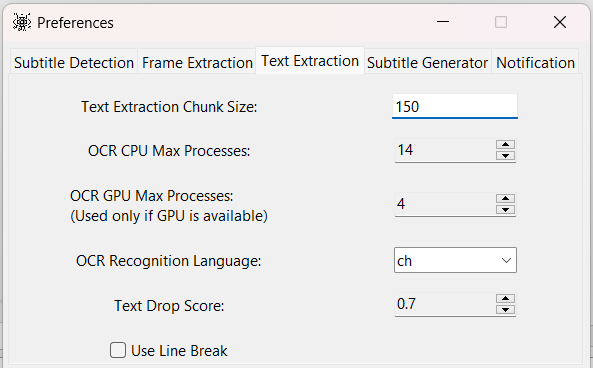
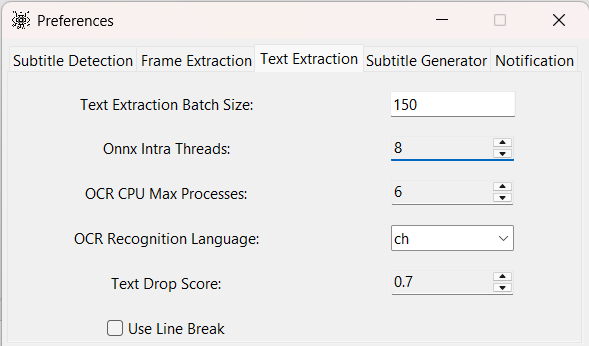
variables renamed

diff --git a/gui.py b/gui.py
@@ -1070,13 +1070,13 @@ class PreferencesUI(tk.Toplevel):
             width=self.spinbox_size
         ).grid(column=1, row=0)
 
-        ttk.Label(frame_extraction_frame, text="Frame Extraction Chunk Size:").grid(column=0, row=1)
-        self.frame_extraction_chunk_size = tk.IntVar(value=utils.Config.frame_extraction_chunk_size)
-        self.frame_extraction_chunk_size.trace_add("write", self._set_reset_button)
+        ttk.Label(frame_extraction_frame, text="Frame Extraction Batch Size:").grid(column=0, row=1)
+        self.frame_extraction_batch_size = tk.IntVar(value=utils.Config.frame_extraction_batch_size)
+        self.frame_extraction_batch_size.trace_add("write", self._set_reset_button)
         check_int = (self.register(self._check_integer), '%P')
         ttk.Entry(
             frame_extraction_frame,
-            textvariable=self.frame_extraction_chunk_size,
+            textvariable=self.frame_extraction_batch_size,
             validate='key',
             validatecommand=check_int,
             width=self.entry_size
@@ -1091,40 +1091,38 @@ class PreferencesUI(tk.Toplevel):
         text_extraction_frame.grid_columnconfigure(1, weight=1)
         self.notebook_tab.add(text_extraction_frame, text=utils.Config.sections[1])
 
-        ttk.Label(text_extraction_frame, text="Text Extraction Chunk Size:").grid(
+        ttk.Label(text_extraction_frame, text="Text Extraction Batch Size:").grid(
             column=0, row=0, padx=self.wgt_x_padding, pady=self.wgt_y_padding
         )
-        self.text_extraction_chunk_size = tk.IntVar(value=utils.Config.text_extraction_chunk_size)
-        self.text_extraction_chunk_size.trace_add("write", self._set_reset_button)
+        self.text_extraction_batch_size = tk.IntVar(value=utils.Config.text_extraction_batch_size)
+        self.text_extraction_batch_size.trace_add("write", self._set_reset_button)
         check_int = (self.register(self._check_integer), '%P')
         ttk.Entry(
             text_extraction_frame,
-            textvariable=self.text_extraction_chunk_size,
+            textvariable=self.text_extraction_batch_size,
             validate='key',
             validatecommand=check_int,
             width=self.entry_size
         ).grid(column=1, row=0)
 
-        ttk.Label(text_extraction_frame, text="OCR CPU Max Processes:").grid(column=0, row=1)
+        ttk.Label(text_extraction_frame, text="Onnx Intra Threads:").grid(column=0, row=1)
+        self.onnx_intra_threads = tk.IntVar(value=utils.Config.onnx_intra_threads)
+        self.onnx_intra_threads.trace_add("write", self._set_reset_button)
+        ttk.Spinbox(
+            text_extraction_frame,
+            from_=0, to=cpu_count(),
+            textvariable=self.onnx_intra_threads,
+            state="readonly",
+            width=self.spinbox_size
+        ).grid(column=1, row=1)
+
+        ttk.Label(text_extraction_frame, text="OCR CPU Max Processes:").grid(column=0, row=2, pady=self.wgt_y_padding)
         self.ocr_cpu_max_processes = tk.IntVar(value=utils.Config.ocr_cpu_max_processes)
         self.ocr_cpu_max_processes.trace_add("write", self._set_reset_button)
         ttk.Spinbox(
             text_extraction_frame,
             from_=1, to=cpu_count(),
             textvariable=self.ocr_cpu_max_processes,
-            state="readonly",
-            width=self.spinbox_size
-        ).grid(column=1, row=1)
-
-        ttk.Label(text_extraction_frame, text="OCR GPU Max Processes:\n(Used only if GPU is available)").grid(
-            column=0, row=2, pady=self.wgt_y_padding
-        )
-        self.ocr_gpu_max_processes = tk.IntVar(value=utils.Config.ocr_gpu_max_processes)
-        self.ocr_gpu_max_processes.trace_add("write", self._set_reset_button)
-        ttk.Spinbox(
-            text_extraction_frame,
-            from_=1, to=cpu_count() // 2,
-            textvariable=self.ocr_gpu_max_processes,
             state="readonly",
             width=self.spinbox_size
         ).grid(column=1, row=2)
@@ -1283,9 +1281,9 @@ class PreferencesUI(tk.Toplevel):
         logger.debug(f"Reset button set by -> {args}")
         default_values = (
             utils.Config.default_frame_extraction_frequency,
-            utils.Config.default_frame_extraction_chunk_size,
-            utils.Config.default_text_extraction_chunk_size,
-            utils.Config.default_ocr_gpu_max_processes,
+            utils.Config.default_frame_extraction_batch_size,
+            utils.Config.default_text_extraction_batch_size,
+            utils.Config.default_onnx_intra_threads,
             utils.Config.default_ocr_cpu_max_processes,
             utils.Config.default_ocr_rec_language,
             utils.Config.default_text_drop_score,
@@ -1308,9 +1306,9 @@ class PreferencesUI(tk.Toplevel):
         try:
             values = (
                 self.frame_extraction_frequency.get(),
-                self.frame_extraction_chunk_size.get(),
-                self.text_extraction_chunk_size.get(),
-                self.ocr_gpu_max_processes.get(),
+                self.frame_extraction_batch_size.get(),
+                self.text_extraction_batch_size.get(),
+                self.onnx_intra_threads.get(),
                 self.ocr_cpu_max_processes.get(),
                 self.ocr_rec_language.get(),
                 self.text_drop_score.get(),
@@ -1369,10 +1367,10 @@ class PreferencesUI(tk.Toplevel):
         """
         # Frame extraction settings.
         self.frame_extraction_frequency.set(utils.Config.default_frame_extraction_frequency)
-        self.frame_extraction_chunk_size.set(utils.Config.default_frame_extraction_chunk_size)
+        self.frame_extraction_batch_size.set(utils.Config.default_frame_extraction_batch_size)
         # Text extraction settings.
-        self.text_extraction_chunk_size.set(utils.Config.default_text_extraction_chunk_size)
-        self.ocr_gpu_max_processes.set(utils.Config.default_ocr_gpu_max_processes)
+        self.text_extraction_batch_size.set(utils.Config.default_text_extraction_batch_size)
+        self.onnx_intra_threads.set(utils.Config.default_onnx_intra_threads)
         self.ocr_cpu_max_processes.set(utils.Config.default_ocr_cpu_max_processes)
         self.ocr_rec_language.set(utils.Config.default_ocr_rec_language)
         self.text_drop_score.set(utils.Config.default_text_drop_score)
@@ -1403,10 +1401,10 @@ class PreferencesUI(tk.Toplevel):
                 **{
                     # Frame extraction settings.
                     utils.Config.keys[0]: self.frame_extraction_frequency.get(),
-                    utils.Config.keys[1]: self.frame_extraction_chunk_size.get(),
+                    utils.Config.keys[1]: self.frame_extraction_batch_size.get(),
                     # Text extraction settings.
-                    utils.Config.keys[2]: self.text_extraction_chunk_size.get(),
-                    utils.Config.keys[3]: self.ocr_gpu_max_processes.get(),
+                    utils.Config.keys[2]: self.text_extraction_batch_size.get(),
+                    utils.Config.keys[3]: self.onnx_intra_threads.get(),
                     utils.Config.keys[17]: self.ocr_cpu_max_processes.get(),
                     utils.Config.keys[4]: self.ocr_rec_language.get(),
                     utils.Config.keys[18]: self.text_drop_score.get(),

diff --git a/utilities/utils.py b/utilities/utils.py
@@ -1,6 +1,5 @@
 import logging
 from configparser import ConfigParser
-from os import cpu_count
 from pathlib import Path
 
 logger = logging.getLogger(__name__)
@@ -33,8 +32,8 @@ class Config:
     config.read(config_file)
 
     sections = ["Frame Extraction", "Text Extraction", "Subtitle Generator", "Subtitle Detection", "Notification"]
-    keys = ["frame_extraction_frequency", "frame_extraction_chunk_size", "text_extraction_chunk_size",
-            "ocr_gpu_max_processes", "ocr_rec_language", "text_similarity_threshold", "min_consecutive_sub_dur_ms",
+    keys = ["frame_extraction_frequency", "frame_extraction_batch_size", "text_extraction_batch_size",
+            "onnx_intra_threads", "ocr_rec_language", "text_similarity_threshold", "min_consecutive_sub_dur_ms",
             "max_consecutive_short_durs", "min_sub_duration_ms", "split_start", "split_stop", "no_of_frames",
             "sub_area_x_rel_padding", "sub_area_y_abs_padding", "use_search_area", "win_notify_sound",
             "win_notify_loop_sound", "ocr_cpu_max_processes", "text_drop_score", "use_gpu", "line_break"]
@@ -48,11 +47,11 @@ class Config:
 
     # Default values
     default_frame_extraction_frequency = 2
-    default_frame_extraction_chunk_size = 250
+    default_frame_extraction_batch_size = 250
 
-    default_text_extraction_chunk_size = 150
-    default_ocr_gpu_max_processes = 4
-    default_ocr_cpu_max_processes = cpu_count() // 2
+    default_text_extraction_batch_size = 100
+    default_onnx_intra_threads = 8
+    default_ocr_cpu_max_processes = 6
     default_ocr_rec_language = "ch"
     default_text_drop_score = 0.7
     default_line_break = False
@@ -74,8 +73,8 @@ class Config:
     default_win_notify_loop_sound = True
 
     # Initial values
-    frame_extraction_frequency = frame_extraction_chunk_size = None
-    text_extraction_chunk_size = ocr_gpu_max_processes = ocr_cpu_max_processes = ocr_rec_language = text_drop_score = None
+    frame_extraction_frequency = frame_extraction_batch_size = None
+    text_extraction_batch_size = onnx_intra_threads = ocr_cpu_max_processes = ocr_rec_language = text_drop_score = None
     text_similarity_threshold = min_consecutive_sub_dur_ms = max_consecutive_short_durs = min_sub_duration_ms = use_gpu = None
     split_start = split_stop = no_of_frames = sub_area_x_rel_padding = sub_area_y_abs_padding = use_search_area = None
     win_notify_sound = win_notify_loop_sound = line_break = None
@@ -90,9 +89,9 @@ class Config:
         Creates a new config file with the default values.
         """
         self.config[self.sections[0]] = {self.keys[0]: str(self.default_frame_extraction_frequency),
-                                         self.keys[1]: self.default_frame_extraction_chunk_size}
-        self.config[self.sections[1]] = {self.keys[2]: self.default_text_extraction_chunk_size,
-                                         self.keys[3]: self.default_ocr_gpu_max_processes,
+                                         self.keys[1]: self.default_frame_extraction_batch_size}
+        self.config[self.sections[1]] = {self.keys[2]: self.default_text_extraction_batch_size,
+                                         self.keys[3]: self.default_onnx_intra_threads,
                                          self.keys[17]: self.default_ocr_cpu_max_processes,
                                          self.keys[4]: self.default_ocr_rec_language,
                                          self.keys[18]: self.default_text_drop_score,
@@ -119,10 +118,10 @@ class Config:
         Parse the values of the config file into memory.
         """
         cls.frame_extraction_frequency = cls.config[cls.sections[0]].getint(cls.keys[0])
-        cls.frame_extraction_chunk_size = cls.config[cls.sections[0]].getint(cls.keys[1])
+        cls.frame_extraction_batch_size = cls.config[cls.sections[0]].getint(cls.keys[1])
 
-        cls.text_extraction_chunk_size = cls.config[cls.sections[1]].getint(cls.keys[2])
-        cls.ocr_gpu_max_processes = cls.config[cls.sections[1]].getint(cls.keys[3])
+        cls.text_extraction_batch_size = cls.config[cls.sections[1]].getint(cls.keys[2])
+        cls.onnx_intra_threads = cls.config[cls.sections[1]].getint(cls.keys[3])
         cls.ocr_cpu_max_processes = cls.config[cls.sections[1]].getint(cls.keys[17])
         cls.ocr_rec_language = cls.config[cls.sections[1]][cls.keys[4]]
         cls.text_drop_score = cls.config[cls.sections[1]].getfloat(cls.keys[18])
@@ -154,13 +153,13 @@ class Config:
         cls.frame_extraction_frequency = kwargs.get(cls.keys[0], cls.frame_extraction_frequency)
         # Write the value of the class variable into to the config parser (file).
         cls.config[cls.sections[0]][cls.keys[0]] = str(cls.frame_extraction_frequency)
-        cls.frame_extraction_chunk_size = kwargs.get(cls.keys[1], cls.frame_extraction_chunk_size)
-        cls.config[cls.sections[0]][cls.keys[1]] = str(cls.frame_extraction_chunk_size)
+        cls.frame_extraction_batch_size = kwargs.get(cls.keys[1], cls.frame_extraction_batch_size)
+        cls.config[cls.sections[0]][cls.keys[1]] = str(cls.frame_extraction_batch_size)
 
-        cls.text_extraction_chunk_size = kwargs.get(cls.keys[2], cls.text_extraction_chunk_size)
-        cls.config[cls.sections[1]][cls.keys[2]] = str(cls.text_extraction_chunk_size)
-        cls.ocr_gpu_max_processes = kwargs.get(cls.keys[3], cls.ocr_gpu_max_processes)
-        cls.config[cls.sections[1]][cls.keys[3]] = str(cls.ocr_gpu_max_processes)
+        cls.text_extraction_batch_size = kwargs.get(cls.keys[2], cls.text_extraction_batch_size)
+        cls.config[cls.sections[1]][cls.keys[2]] = str(cls.text_extraction_batch_size)
+        cls.onnx_intra_threads = kwargs.get(cls.keys[3], cls.onnx_intra_threads)
+        cls.config[cls.sections[1]][cls.keys[3]] = str(cls.onnx_intra_threads)
         cls.ocr_cpu_max_processes = kwargs.get(cls.keys[17], cls.ocr_cpu_max_processes)
         cls.config[cls.sections[1]][cls.keys[17]] = str(cls.ocr_cpu_max_processes)
         cls.ocr_rec_language = kwargs.get(cls.keys[4], cls.ocr_rec_language)

diff --git a/utilities/video_to_frames.py b/utilities/video_to_frames.py
@@ -65,13 +65,10 @@ def video_to_frames(video_path: str, frames_dir: Path, key_area: tuple | None, s
     :param start_frame: The frame where image extractions from video starts.
     :param stop_frame: The frame where image extractions from video stops.
     """
-    # extract every this many frames.
-    every = utils.Config.frame_extraction_frequency
-    # how many frames to split into chunks (one chunk per cpu core process)
-    chunk_size = utils.Config.frame_extraction_chunk_size
-    # cancel if process has been cancelled by gui.
+    every = utils.Config.frame_extraction_frequency  # extract every this many frames.
+    batch_size = utils.Config.frame_extraction_batch_size
     prefix = "Frame Extraction"
-    if utils.Process.interrupt_process:
+    if utils.Process.interrupt_process:  # cancel if process has been cancelled by gui.
         logger.warning(f"{prefix} process interrupted!")
         return
 
@@ -79,24 +76,24 @@ def video_to_frames(video_path: str, frames_dir: Path, key_area: tuple | None, s
     frame_count = int(capture.get(cv.CAP_PROP_FRAME_COUNT))  # get its total frame count
     capture.release()  # release the capture straight away
 
-    # ignore chunk size if it's greater than frame count
-    chunk_size = chunk_size if frame_count > chunk_size else frame_count - 1
+    # ignore batch size if it's greater than frame count
+    batch_size = batch_size if frame_count > batch_size else frame_count - 1
 
     if frame_count < 1:  # if video has no frames, might be and opencv error
         logger.error("Video has no frames. Check your OpenCV installation")
         return  # end function call
 
     start_frame, stop_frame = start_frame or 0, stop_frame or frame_count
-    # split the frames into chunk lists
-    frame_chunks = [[i, i + chunk_size] for i in range(start_frame, stop_frame, chunk_size)]
-    frame_chunks[-1][-1] = stop_frame  # make sure last chunk has correct end frame
-    no_chunks = len(frame_chunks)
+    # split the frames into batches
+    frame_batches = [[i, i + batch_size] for i in range(start_frame, stop_frame, batch_size)]
+    frame_batches[-1][-1] = stop_frame  # make sure last batch has correct end frame
+    no_batches = len(frame_batches)
     # create a process pool to execute across multiple cpu cores to speed up processing
     logger.info(f"Starting Multiprocess {prefix} from video...")
     with ProcessPoolExecutor() as executor:
         futures = [executor.submit(extract_frames, video_path, frames_dir, key_area, f[0], f[1], every)
-                   for f in frame_chunks]  # submit the processes: extract_frames(...)
+                   for f in frame_batches]  # submit the processes: extract_frames(...)
         for i, f in enumerate(as_completed(futures)):  # as each process completes
             f.result()  # Prevents silent bugs. Exceptions raised will now be displayed.
-            utils.print_progress(i, no_chunks - 1, prefix)
+            utils.print_progress(i, no_batches - 1, prefix)
     logger.info(f"{prefix} done!")

diff --git a/utilities/frames_to_text.py b/utilities/frames_to_text.py
@@ -54,34 +54,29 @@ def extract_text(ocr_engine, text_output: Path, files: list, line_sep: str) -> N
 
 def frames_to_text(frame_output: Path, text_output: Path) -> None:
     """
-    Extracts the texts from frames using multiprocessing
+    Extracts the texts from frames using multiprocessing.
     :param frame_output: directory of the frames
     :param text_output: directory for extracted texts
     """
-    chunk_size = utils.Config.text_extraction_chunk_size  # Size of files given to each processor.
-    if utils.Config.use_gpu and ort.get_device() == "GPU":
-        device, max_processes = "GPU", utils.Config.ocr_gpu_max_processes
-    else:
-        device, max_processes = "CPU", utils.Config.ocr_cpu_max_processes
-    prefix = "Text Extraction"
+    batch_size = utils.Config.text_extraction_batch_size  # Size of files given to each processor.
+    prefix, device = "Text Extraction", "GPU" if utils.Config.use_gpu and ort.get_device() == "GPU" else "CPU"
     if utils.Process.interrupt_process:  # Cancel if process has been cancelled by gui.
         logger.warning(f"{prefix} process interrupted!")
         return
 
     sess_opt = ort.SessionOptions()
-    sess_opt.intra_op_num_threads = max_processes
+    sess_opt.intra_op_num_threads = utils.Config.onnx_intra_threads
     ocr_config = {"use_gpu": utils.Config.use_gpu, "drop_score": utils.Config.text_drop_score,
                   "lang": utils.Config.ocr_rec_language, "onnx_sess_options": sess_opt} | utils.Config.ocr_opts
     ocr_engine = PaddleOCR(**ocr_config)
     line_sep = "\n" if utils.Config.line_break else " "
     files = list(frame_output.iterdir())
-    file_chunks = [files[i:i + chunk_size] for i in range(0, len(files), chunk_size)]
-    no_chunks = len(file_chunks)
-    logger.info(f"Starting Multiprocess {prefix} from frames on {device}... "
-                f"Max Processes: {max_processes}, Chunks: {no_chunks}")
-    with ThreadPoolExecutor(max_processes) as executor:
-        futures = [executor.submit(extract_text, ocr_engine, text_output, files, line_sep) for files in file_chunks]
+    file_batches = [files[i:i + batch_size] for i in range(0, len(files), batch_size)]
+    no_batches = len(file_batches)
+    logger.info(f"Starting Multiprocess {prefix} from frames on {device}, Batches: {no_batches}.")
+    with ThreadPoolExecutor(utils.Config.ocr_cpu_max_processes) as executor:
+        futures = [executor.submit(extract_text, ocr_engine, text_output, files, line_sep) for files in file_batches]
         for i, f in enumerate(as_completed(futures)):  # as each  process completes
             f.result()  # Prevents silent bugs. Exceptions raised will be displayed.
-            utils.print_progress(i, no_chunks - 1, prefix)
+            utils.print_progress(i, no_batches - 1, prefix)
     logger.info(f"{prefix} done!")

diff --git a/main.py b/main.py
@@ -42,27 +42,27 @@ class SubtitleDetector:
 
         relative_start, relative_stop = int(self.frame_total * split_start), int(self.frame_total * split_stop)
         logger.debug(f"Relative start frame = {relative_start}, Relative stop frame = {relative_stop}")
-        # Split the frames into chunk lists.
-        frame_chunks = [[i, i + no_of_frames] for i in range(relative_start, relative_stop)]
-        frame_chunks_len = len(frame_chunks)
-        logger.debug(f"{self.frame_total=}, {frame_chunks_len=}")
+        # Split the frames into batches.
+        frame_batches = [[i, i + no_of_frames] for i in range(relative_start, relative_stop)]
+        no_batches = len(frame_batches)
+        logger.debug(f"{self.frame_total=}, {no_batches=}")
         start_duration = self.sub_ex.frame_no_to_duration(relative_start, self.fps)
         stop_duration = self.sub_ex.frame_no_to_duration(relative_stop, self.fps)
         logger.info(f"Split Start = {start_duration}, Split Stop = {stop_duration}")
-        if frame_chunks_len > 3:
-            middle_chunk = int(frame_chunks_len / 2)
-            frame_chunks = [frame_chunks[0], frame_chunks[middle_chunk], frame_chunks[-1]]
-        last_frame_chunk = frame_chunks[-1][-1]
-        if last_frame_chunk > self.frame_total:
-            frame_chunks[-1][-1] = relative_stop
-        logger.debug(f"{frame_chunks=}")
+        if no_batches > 3:
+            middle_batch = int(no_batches / 2)
+            frame_batches = [frame_batches[0], frame_batches[middle_batch], frame_batches[-1]]
+        last_frame_batch = frame_batches[-1][-1]
+        if last_frame_batch > self.frame_total:
+            frame_batches[-1][-1] = relative_stop
+        logger.debug(f"{frame_batches=}")
         # Part of the video to look for subtitles.
         if self.use_search_area:
             logger.info("Default sub area is being used as search area.")
             search_area = self.sub_ex.default_sub_area(self.frame_width, self.frame_height)
         else:
             search_area = None
-        for frames in frame_chunks:
+        for frames in frame_batches:
             extract_frames(self.video_file, self.frame_output, search_area, frames[0], frames[1], int(self.fps))
 
     def _pad_sub_area(self, top_left: tuple, bottom_right: tuple) -> tuple:

diff --git a/docs/Preferences.md b/docs/Preferences.md
@@ -33,19 +33,21 @@ extracted. The timing for the subtitles will be the most accurate and the subtit
 extraction will happen after every 2 frames. The timing will be slightly off, but the entire subtitle extraction process
 will be significantly faster because only half of the frames will be used (total frames / 2).
 
-Frame Extraction Chunk Size: The number of frames to be extracted by each CPU core.
+Frame Extraction Batch Size: The number of frames to be extracted by each CPU core.
 
 ### Text Extraction
 
 <img src="images/text%20extract.png" width="400">
 
-Text Extraction Chunk Size: The number of frames to be extracted by each CPU or GPU core/process.
+Text Extraction Batch Size: The number of frames to be extracted by each CPU or GPU core/process.
+
+Onnx Intra Threads: The number of threads used by Onnx to parallelize the execution within nodes.
 
 OCR CPU Max Processes: The maximum number of CPU cores to be used for extraction of text from the video. Too little or
 too many will increase extraction time.
 
-OCR GPU Max Processes: The maximum number of GPU processes to be used for extraction of text from the video. Using too
-many will cause a crash if GPU memory is not enough.
+**Note:** Onnx Intra Threads & OCR CPU Max Processes will require some testing with different values to determine the
+optimal values.
 
 OCR Recognition Language: The language of the subtitle in the video to be extracted.
 

diff --git a/README.md b/README.md
@@ -1,6 +1,6 @@
 # Video Sub Extractor
 
-![python version](https://img.shields.io/badge/Python-3.11-blue)
+![python version](https://img.shields.io/badge/Python-3.12-blue)
 ![support os](https://img.shields.io/badge/OS-Windows-green.svg)
 
 A free program that extracts hard coded subtitles from a video and generates an external subtitle file.
